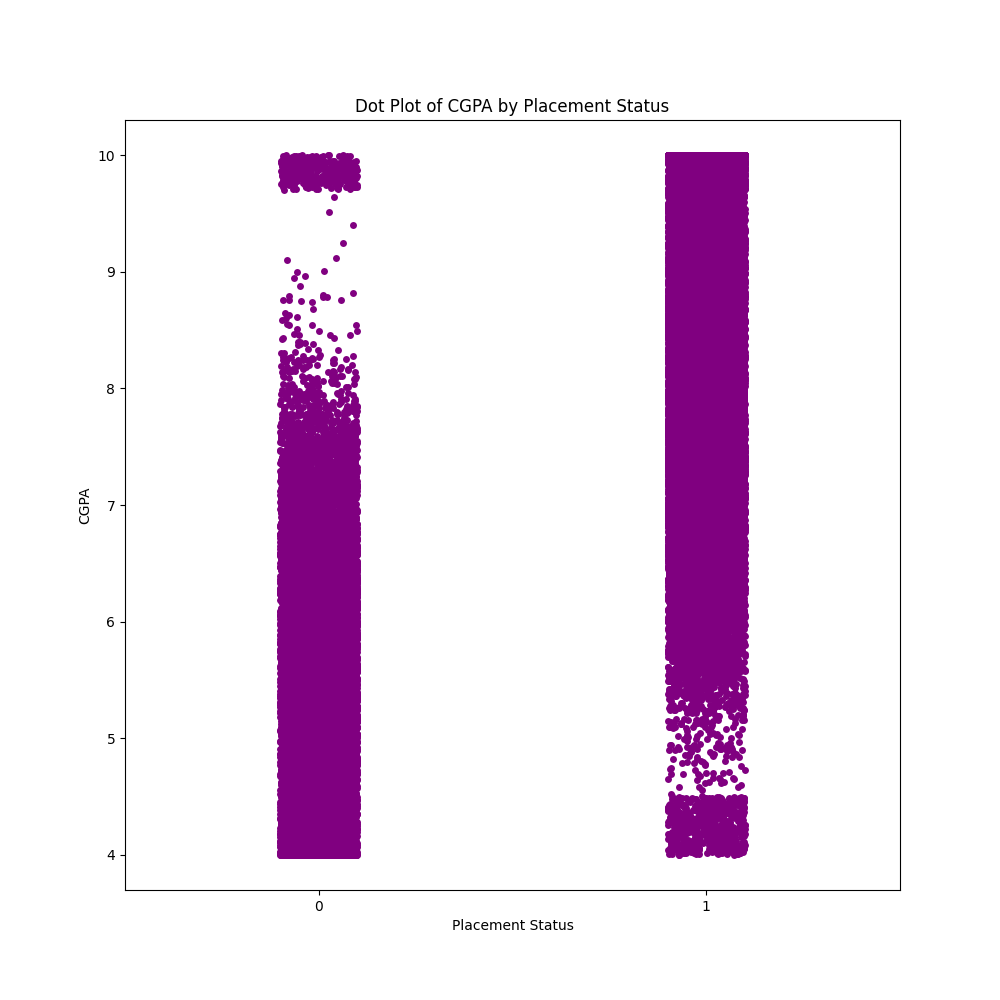
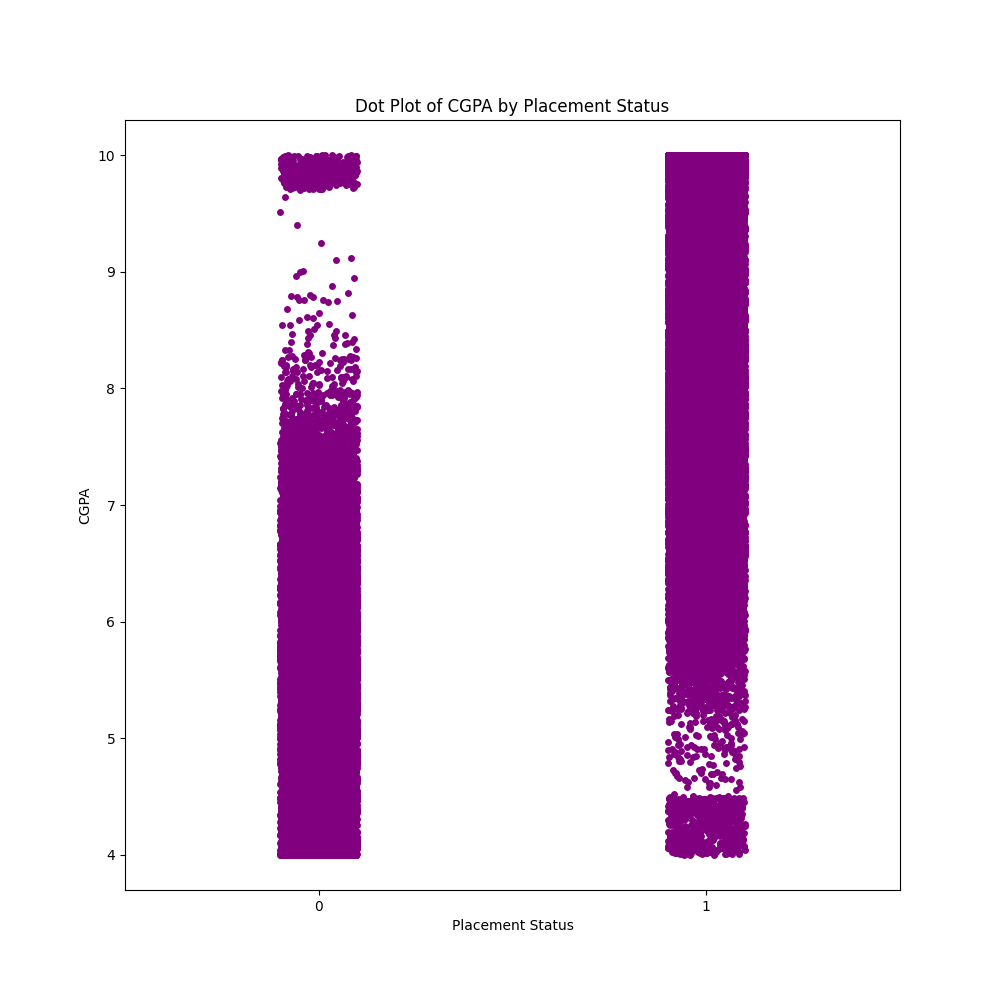
Updated Commit

diff --git a/templates/eda.html b/templates/eda.html
@@ -104,6 +104,16 @@
                 </select>
             </div>
 
+            <!-- ── Univariate: Outlier Stats ── -->
+            <div id="outlier_inputs" style="display: none;">
+                <label for="col_outlier">Select Numeric Column:</label>
+                <select name="col_outlier" id="col_outlier">
+                    {% for col in numeric_cols %}
+                    <option value="{{ col }}">{{ col }}</option>
+                    {% endfor %}
+                </select>
+            </div>
+
             <!-- ── Bivariate: Violin ── -->
             <div id="violin_inputs" style="display: none;">
                 <label for="col_violin_x">X Axis (Categorical Column):</label>
@@ -420,6 +430,7 @@ const univariateOptions = [
     { value: 'summary_stats',          label: '📋 Summary Statistics (describe)' },
     { value: 'missing_values',         label: '❓ Missing Values Check' },
     { value: 'value_counts',           label: '🔢 Value Counts for a Column' },
+    { value: 'outlier_stats',          label: '📉 Detailed Outlier Statistics' },
 ];
 
 const bivariateOptions = [
@@ -511,7 +522,7 @@ function toggleInputs() {
     const op = document.getElementById('operation')?.value || '';
 
     // Hide all extra inputs first
-    ['kde_inputs','vc_inputs','violin_inputs',
+    ['kde_inputs','vc_inputs','violin_inputs', 'outlier_inputs',
      'mv_pairplot_inputs','mv_grouped_bar_inputs',
      'mv_boxgroup_inputs','mv_strip_inputs','mv_facet_inputs'
     ].forEach(id => { const el = document.getElementById(id); if(el) el.style.display = 'none'; });
@@ -519,6 +530,7 @@ function toggleInputs() {
     // Show relevant ones
     if (op === 'kde_plot')     document.getElementById('kde_inputs').style.display    = 'block';
     if (op === 'value_counts') document.getElementById('vc_inputs').style.display     = 'block';
+    if (op === 'outlier_stats') document.getElementById('outlier_inputs').style.display = 'block';
     if (op === 'violin_plot')  document.getElementById('violin_inputs').style.display = 'block';
     if (mvExtraInputs[op]) {
         const el = document.getElementById(mvExtraInputs[op]);

diff --git a/templates/prediction.html b/templates/prediction.html
@@ -212,7 +212,7 @@
         <div class="fi-row">
             <span class="fi-name">{{ fi.name }}</span>
             <div class="fi-bar-track">
-                <div class="fi-bar-fill" style="width: {{ fi.pct * 3 | min(100) }}%"></div>
+                <div class="fi-bar-fill" style="width: {{ [fi.pct * 3, 100] | min }}%"></div>
             </div>
             <span class="fi-pct">{{ fi.pct }}%</span>
         </div>

diff --git a/templates/base.html b/templates/base.html
@@ -27,6 +27,7 @@
         <a href="{{ url_for('load_page') }}" class="menu-btn">&#128203; Load Data</a>
         <a href="{{ url_for('eda_page') }}" class="menu-btn">&#128200; EDA</a>
         <a href="{{ url_for('feature_engg_page') }}" class="menu-btn">&#9881; Feature Engg</a>
+        <a href="{{ url_for('predict_page') }}" class="menu-btn">&#129302; Predict</a>
     </aside>
 
     <!-- Page Content -->

diff --git a/Main.py b/Main.py
@@ -145,6 +145,39 @@ def eda_page():
             if col:
                 eda_output = df[col].value_counts().to_frame(name='Count').to_html(classes="data-table")
 
+        # ── Outlier Statistics ───────────────────────────────────
+        elif operation == 'outlier_stats':
+            col = request.form.get('col_outlier')
+            if col and pd.api.types.is_numeric_dtype(df[col]):
+                series = df[col].dropna()
+                q1 = series.quantile(0.25)
+                q2 = series.median()
+                q3 = series.quantile(0.75)
+                iqr = q3 - q1
+                lb = q1 - 1.5 * iqr
+                ub = q3 + 1.5 * iqr
+                outliers = series[(series < lb) | (series > ub)]
+                
+                stats_df = pd.DataFrame({
+                    'Metric': ['Min', 'Max', 'Q1 (25%)', 'Q2 (Median)', 'Q3 (75%)', 'IQR', 'Lower Bound (LB)', 'Upper Bound (UB)', 'Outliers Count'],
+                    'Value': [series.min(), series.max(), q1, q2, q3, iqr, lb, ub, len(outliers)]
+                })
+                
+                # Format to a specific decimal limit for neatness
+                stats_df['Value'] = stats_df['Value'].apply(lambda x: round(x, 4) if isinstance(x, float) else x)
+                
+                outlier_vals_str = "None"
+                if len(outliers) > 0:
+                    outlier_vals = outliers.head(10).apply(lambda x: round(x, 4) if isinstance(x, float) else x).values
+                    outlier_vals_str = ", ".join(map(str, outlier_vals))
+                    if len(outliers) > 10:
+                        outlier_vals_str += f" ... (and {len(outliers)-10} more)"
+                
+                # Append sample outliers row
+                stats_df.loc[len(stats_df)] = ['Sample Outliers', outlier_vals_str]
+                
+                eda_output = f"<h3 style='margin-bottom: 12px;'>Outlier Analysis for <strong>{col}</strong></h3>" + stats_df.to_html(classes="data-table", index=False)
+
         # ── KDE Plot ─────────────────────────────────────────────
         elif operation == 'kde_plot':
             col = request.form.get('col_kde')

diff --git a/Source/data_utils.py b/Source/data_utils.py
@@ -1,0 +1,40 @@
+import os
+import sys
+import pandas as pd
+
+# Add root project directory to sys.path to import config
+sys.path.append(os.path.dirname(os.path.dirname(os.path.abspath(__file__))))
+from config import RAW_DATA_PATH, PROCESSED_DATA_PATH, PROCESSED_DATA_DIR
+
+def clean_data():
+    """
+    Cleans the raw dataset and saves it to the processed data directory.
+    - Fills missing values with median for numerical columns.
+    - Drops duplicate rows.
+    """
+    print(f"Loading raw data from: {RAW_DATA_PATH}")
+    df = pd.read_csv(RAW_DATA_PATH)
+    
+    # Fill missing values for numerical columns with their median
+    missing_cols = ['Workshops', 'AptitudeTestScore', 'SoftSkillsRating', 'CodingTestScore', 'MockInterviewScore']
+    for col in missing_cols:
+        if col in df.columns and df[col].isnull().any():
+            median_val = df[col].median()
+            df[col] = df[col].fillna(median_val)
+            print(f"Filled missing values in '{col}' with median: {median_val}")
+            
+    # Drop duplicates
+    duplicates = df.duplicated().sum()
+    if duplicates > 0:
+        df.drop_duplicates(inplace=True)
+        print(f"Dropped {duplicates} duplicate rows.")
+        
+    # Ensure processed directory exists
+    os.makedirs(PROCESSED_DATA_DIR, exist_ok=True)
+    
+    # Save cleaned data
+    df.to_csv(PROCESSED_DATA_PATH, index=False)
+    print(f"Cleaned data saved to: {PROCESSED_DATA_PATH}")
+
+if __name__ == "__main__":
+    clean_data()

diff --git a/config.py b/config.py
@@ -1,0 +1,47 @@
+import os
+
+BASE_DIR = r"C:\Users\Hp\OneDrive\Desktop\2nd Year\Sem-4\ML\Project"
+RAW_DATA_PATH = os.path.join(BASE_DIR, "Data", "placement_predict_50k Dataset (2).csv")
+PROCESSED_DATA_DIR = os.path.join(BASE_DIR, "Data", "processed")
+PROCESSED_DATA_PATH = os.path.join(PROCESSED_DATA_DIR, "cleaned_data.csv")
+
+PLOTS_DIR = os.path.join(BASE_DIR, "Output", "plot")
+
+CATEGORICAL_COLS = [
+    'Gender',
+    'City',
+    'CollegeTier',
+    'Stream',
+    'Specialisation',
+    'Hostel',
+    'HistoryOfBacklogs',
+    'CGPA_Tier'
+]
+
+TARGETED_COLS = [
+    'PlacementStatus',
+    'Salary Package'
+]
+
+NUMERICAL_COLS = [
+    'SGPA_Sem1',
+    'SGPA_Sem2',
+    'SGPA_Sem3',
+    'SGPA_Sem4',
+    'SGPA_Sem5',
+    'SGPA_Sem6',
+    'SGPA_Sem7',
+    'SGPA_Sem8',
+    'CGPA',
+    'AttendancePercent',
+    'Internships',
+    'Projects',
+    'Workshops',
+    'Certifications',
+    'Publications',
+    'AptitudeTestScore',
+    'SoftSkillsRating',
+    'CodingTestScore',
+    'MockInterviewScore',
+    'ExtraCurricular'
+]

diff --git a/Source/EDA.py b/Source/EDA.py
@@ -16,6 +16,8 @@ os.makedirs(REPORT_PATH, exist_ok=True)
 #loading data
 df = pd.read_csv(os.path.join(DATA_PATH, "placement_predict_50k Dataset (2).csv"))
 print(df.shape)
+print(df.describe())
+print(df.info())
 
 #Count Plot
 plt.figure(figsize = (10,10))
@@ -89,3 +91,4 @@ plt.xlabel("Placement Status")
 plt.ylabel("CGPA")
 plt.savefig(os.path.join(PLOT_PATH, "DotPlot.png"))
 plt.show()
+

diff --git a/Source/eda_analysis.py b/Source/eda_analysis.py
@@ -1,0 +1,1 @@
+import os
